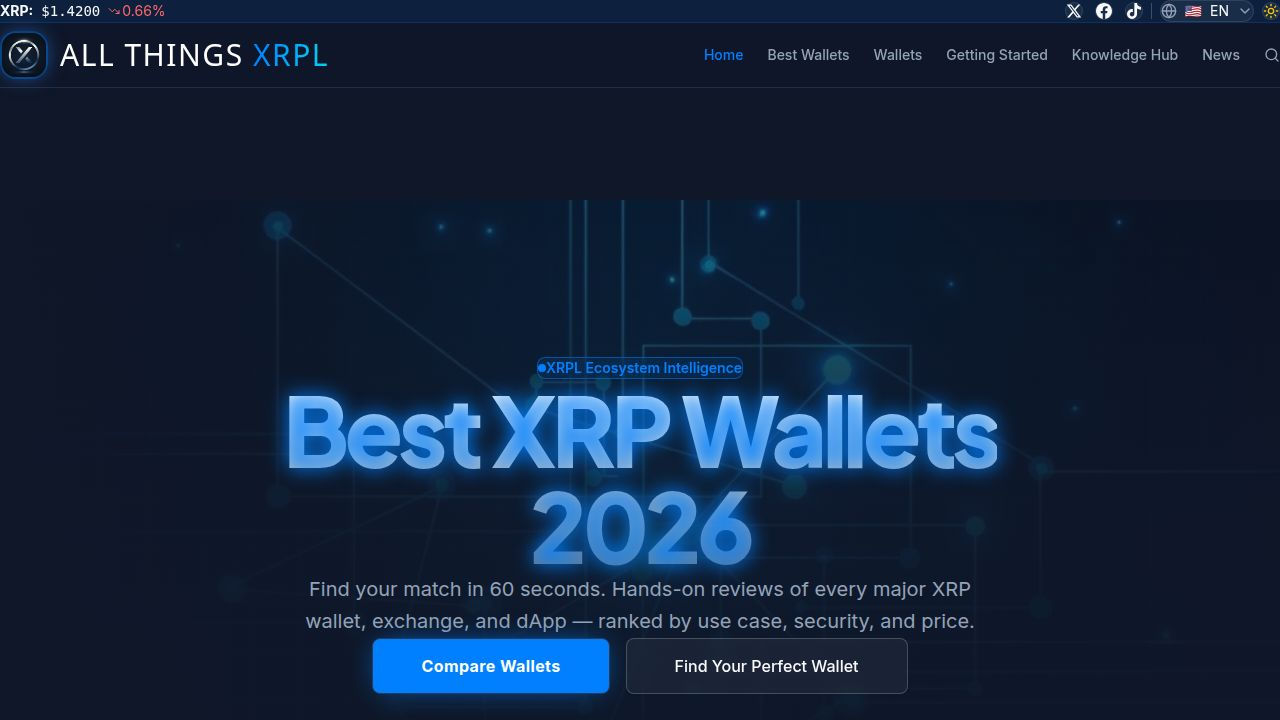
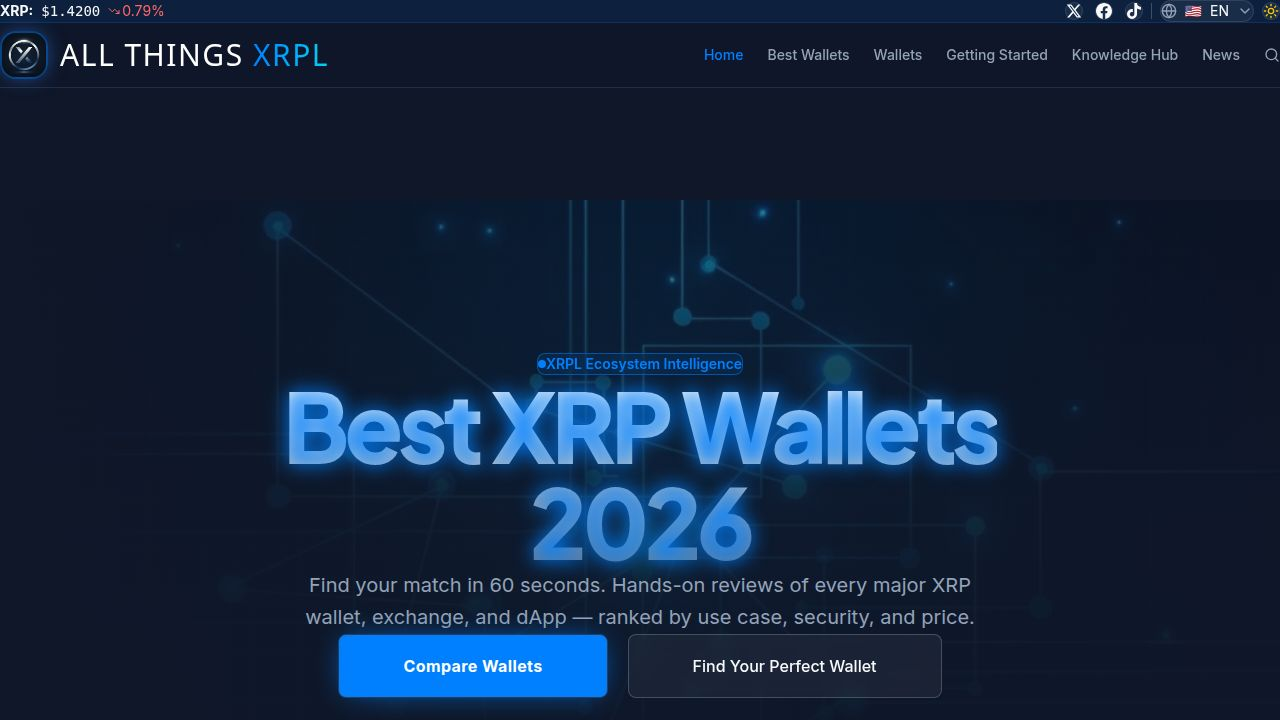
Improve spacing and button sizes for better readability and appearance
Adjusted padding and button sizes in the comparison table and hero section to enhance visual appeal and user experience.

Replit-Commit-Author: Agent
Replit-Commit-Session-Id: e62212b7-2553-4b72-9010-5b14ea35564a
Replit-Commit-Checkpoint-Type: full_checkpoint
Replit-Commit-Event-Id: b544739c-a26b-407e-9e8b-30d8f946367c
Replit-Commit-Screenshot-Url: https://storage.googleapis.com/screenshot-production-us-central1/23117de3-10e7-4c52-ad46-d6ab79553ea5/e62212b7-2553-4b72-9010-5b14ea35564a/dPDEljR
Replit-Helium-Checkpoint-Created: true

Changed region(s): [[0.2188, 0.4889, 0.7812, 0.9778], [0.5312, 0.9167, 0.6875, 0.9472], [0.0938, 0.0, 0.125, 0.0306]]

diff --git a/client/src/components/conversion.tsx b/client/src/components/conversion.tsx
@@ -216,12 +216,12 @@ export function FastCompareTable({
         <table className="w-full text-sm">
           <thead>
             <tr className="text-left text-xs uppercase tracking-wider text-muted-foreground border-b border-white/10">
-              <th className="px-6 py-5 font-semibold">{t("fastCompare.colWallet") || "Wallet"}</th>
-              <th className="px-6 py-5 font-semibold">{t("fastCompare.colType") || "Type"}</th>
-              <th className="px-6 py-5 font-semibold">{t("fastCompare.colPrice") || "Price"}</th>
-              <th className="px-6 py-5 font-semibold">{t("fastCompare.colBestFor") || "Best for"}</th>
-              <th className="px-6 py-5 font-semibold">{t("fastCompare.colRating") || "Score"}</th>
-              <th className="px-6 py-5 font-semibold text-right">{t("fastCompare.colAction") || "Action"}</th>
+              <th className="px-6 py-6 font-semibold">{t("fastCompare.colWallet") || "Wallet"}</th>
+              <th className="px-6 py-6 font-semibold">{t("fastCompare.colType") || "Type"}</th>
+              <th className="px-6 py-6 font-semibold">{t("fastCompare.colPrice") || "Price"}</th>
+              <th className="px-6 py-6 font-semibold">{t("fastCompare.colBestFor") || "Best for"}</th>
+              <th className="px-6 py-6 font-semibold">{t("fastCompare.colRating") || "Score"}</th>
+              <th className="px-6 py-6 font-semibold text-right">{t("fastCompare.colAction") || "Action"}</th>
             </tr>
           </thead>
           <tbody>
@@ -233,7 +233,7 @@ export function FastCompareTable({
                 }`}
                 data-testid={`compare-row-${r.id}`}
               >
-                <td className="px-6 py-5">
+                <td className="px-6 py-6">
                   <div className="flex items-center gap-3">
                     <span className="font-display font-bold text-white">{r.name}</span>
                     {r.highlight && (
@@ -243,18 +243,18 @@ export function FastCompareTable({
                     )}
                   </div>
                 </td>
-                <td className="px-6 py-5 text-muted-foreground">{r.type}</td>
-                <td className="px-6 py-5 text-muted-foreground">{r.price}</td>
-                <td className="px-6 py-5 text-muted-foreground">{r.bestFor}</td>
-                <td className="px-6 py-5 font-display font-bold text-primary">{r.rating}</td>
-                <td className="px-6 py-5">
-                  <div className="flex items-center justify-end gap-2">
+                <td className="px-6 py-6 text-muted-foreground">{r.type}</td>
+                <td className="px-6 py-6 text-muted-foreground">{r.price}</td>
+                <td className="px-6 py-6 text-muted-foreground">{r.bestFor}</td>
+                <td className="px-6 py-6 font-display font-bold text-primary">{r.rating}</td>
+                <td className="px-6 py-6">
+                  <div className="flex items-center justify-end gap-3">
                     {r.reviewSlug && (
                       <Link href={`/wallet/${r.reviewSlug}`}>
                         <Button
                           variant="ghost"
                           size="sm"
-                          className="text-xs hover:text-primary"
+                          className="text-sm hover:text-primary h-10 px-4"
                         >
                           {t("fastCompare.review") || "Review"}
                         </Button>
@@ -263,9 +263,9 @@ export function FastCompareTable({
                     <a href={r.affiliateUrl} target="_blank" rel="noopener noreferrer">
                       <Button
                         size="sm"
-                        className="bg-primary hover:bg-primary/90 text-white text-xs h-8"
+                        className="bg-primary hover:bg-primary/90 text-white text-sm h-10 px-5"
                       >
-                        {resolvedCta} <ExternalLink className="ml-1 h-3 w-3" />
+                        {resolvedCta} <ExternalLink className="ml-2 h-3.5 w-3.5" />
                       </Button>
                     </a>
                   </div>

diff --git a/client/src/pages/Home.tsx b/client/src/pages/Home.tsx
@@ -617,7 +617,7 @@ export default function Home() {
             initial={{ opacity: 0, y: 20 }}
             animate={{ opacity: 1, y: 0 }}
             transition={{ duration: 0.6, delay: 0.2 }}
-            className="text-lg md:text-xl text-muted-foreground max-w-2xl mb-10 leading-relaxed"
+            className="text-lg md:text-xl text-muted-foreground max-w-2xl mb-12 leading-relaxed"
           >
             Find your match in 60 seconds. Hands-on reviews of every major XRP wallet, exchange, and dApp — ranked by use case, security, and price.
           </motion.p>
@@ -626,17 +626,17 @@ export default function Home() {
             initial={{ opacity: 0, y: 20 }}
             animate={{ opacity: 1, y: 0 }}
             transition={{ duration: 0.6, delay: 0.3 }}
-            className="flex flex-col sm:flex-row gap-4"
+            className="flex flex-col sm:flex-row gap-5"
           >
             <Button 
               size="lg" 
-              className="h-14 !px-12 text-base bg-primary hover:bg-primary/90 text-white font-bold tracking-wide shadow-[0_0_30px_-10px_theme('colors.primary.DEFAULT')]"
+              className="h-16 !px-16 text-base bg-primary hover:bg-primary/90 text-white font-bold tracking-wide shadow-[0_0_30px_-10px_theme('colors.primary.DEFAULT')]"
               onClick={() => document.getElementById('wallets')?.scrollIntoView({ behavior: 'smooth' })}
             >
               {t("hero.cta.compare")}
             </Button>
             <Link href="/wallet-quiz">
-              <Button size="lg" variant="outline" className="h-14 !px-12 text-base border-white/20 bg-white/5 hover:bg-white/10 hover:text-white backdrop-blur-sm">
+              <Button size="lg" variant="outline" className="h-16 !px-16 text-base border-white/20 bg-white/5 hover:bg-white/10 hover:text-white backdrop-blur-sm">
                 {t("hero.cta.quiz")}
               </Button>
             </Link>
